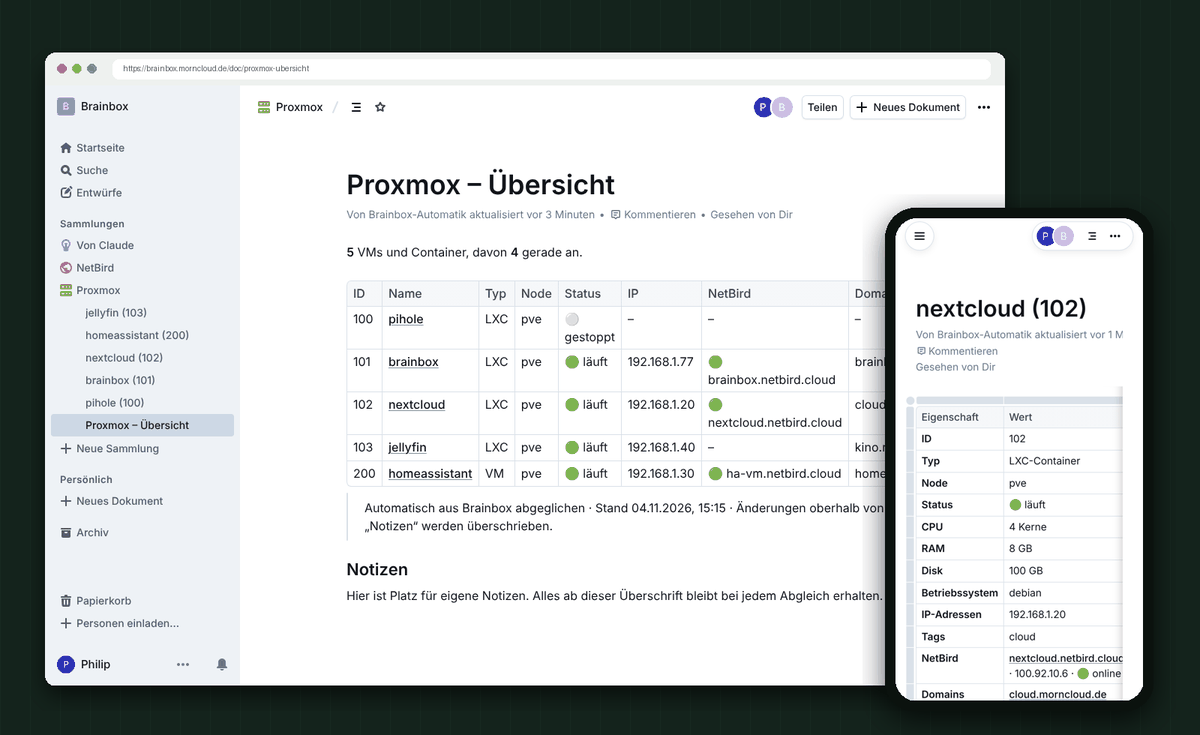
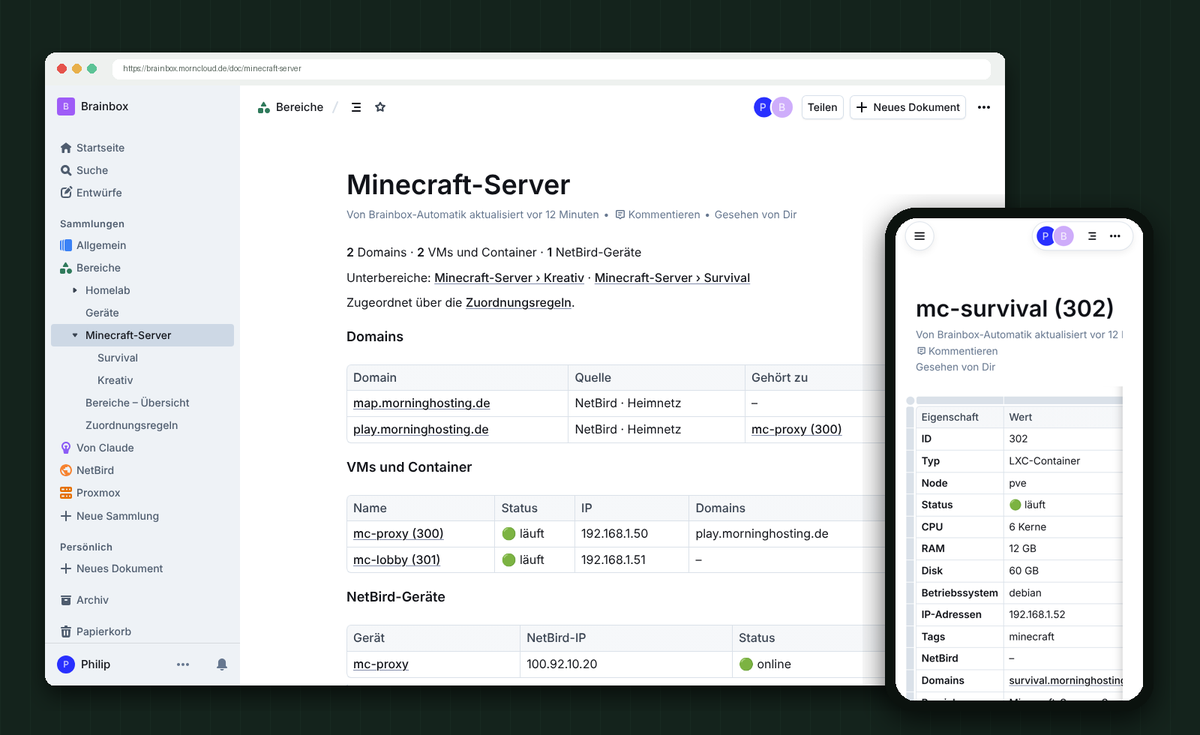
README: Titelbild mit Minecraft-Bereich, Navigation um Bereiche ergänzt
- Neues Titelbild: Bereich "Minecraft-Server" am Rechner und
  Container mc-survival auf dem Handy (volle Farben)
- Navigation, Untertitel und Aufbau-Diagramm nennen die Bereiche

Verfasst mit Claude 🤖

Claude-Session: https://claude.ai/code/session_017GS6h1gt8heoDnT1GL3Ab5

diff --git a/README.md b/README.md
@@ -9,7 +9,7 @@
   <img src="https://img.shields.io/badge/Claude-MCP-8b5cf6" alt="Claude über MCP">
 </p>
 
-<p align="center"><b>Dein Wiki fürs Homelab.</b> Ein Befehl in der Proxmox-Shell, und es steht: auf Deutsch, mit Login-Link für dich,<br>jede VM und jedes NetBird-Gerät automatisch drin, und Claude schreibt mit eigenem Konto mit.</p>
+<p align="center"><b>Dein Wiki fürs Homelab.</b> Ein Befehl in der Proxmox-Shell, und es steht: auf Deutsch, mit Login-Link für dich,<br>jede VM und jedes NetBird-Gerät automatisch drin, nach Bereichen sortiert, und Claude schreibt mit eigenem Konto mit.</p>
 
 <p align="center">
   <a href="#-schnellstart">Schnellstart</a> ·
@@ -17,10 +17,11 @@
   <a href="#-anmelden">Anmelden</a> ·
   <a href="#-claude-verbinden">Claude</a> ·
   <a href="#%EF%B8%8F-proxmox-und-netbird-im-wiki">Proxmox &amp; NetBird</a> ·
+  <a href="#%EF%B8%8F-bereiche">Bereiche</a> ·
   <a href="docs/proxmox-quickstart.md">Quick-Start-Guide</a>
 </p>
 
-<p align="center"><img src="docs/screenshots/hero.png" alt="Brainbox am Rechner und auf dem Handy: Proxmox-Übersicht und Eintrag eines Containers" width="900"></p>
+<p align="center"><img src="docs/screenshots/hero.png" alt="Brainbox am Rechner und auf dem Handy: Bereich Minecraft-Server und Eintrag des Containers mc-survival" width="900"></p>
 
 ---
 
@@ -107,7 +108,7 @@ flowchart LR
   VMs -.-> API
   API --> SY
   NB --> SY
-  SY -- "Einträge anlegen<br/>und aktualisieren" --> OL
+  SY -- "Einträge anlegen, aktualisieren<br/>und nach Bereichen sortieren" --> OL
 ```
 
 ## 🔑 Anmelden
@@ -191,9 +192,9 @@ flowchart LR
 - **Deine Notizen:** Alles ab der Überschrift „Notizen“ bleibt bei jedem Abgleich erhalten.
 - **Domain von Hand zuordnen:** in Proxmox in die Notizen des Gasts eine Zeile `domain: kino.morncloud.de` schreiben.
 
-## 🗂 Bereiche: alles schön unterteilt
+## 🗂 Bereiche
 
-In der Sammlung **Bereiche** liegt die Seite **Zuordnungsregeln**. Die bearbeitest du direkt im Wiki, eine Zeile pro Regel:
+Alles schön unterteilt: In der Sammlung **Bereiche** liegt die Seite **Zuordnungsregeln**. Die bearbeitest du direkt im Wiki, eine Zeile pro Regel:
 
 | Muster | Bereich |
 |---|---|
